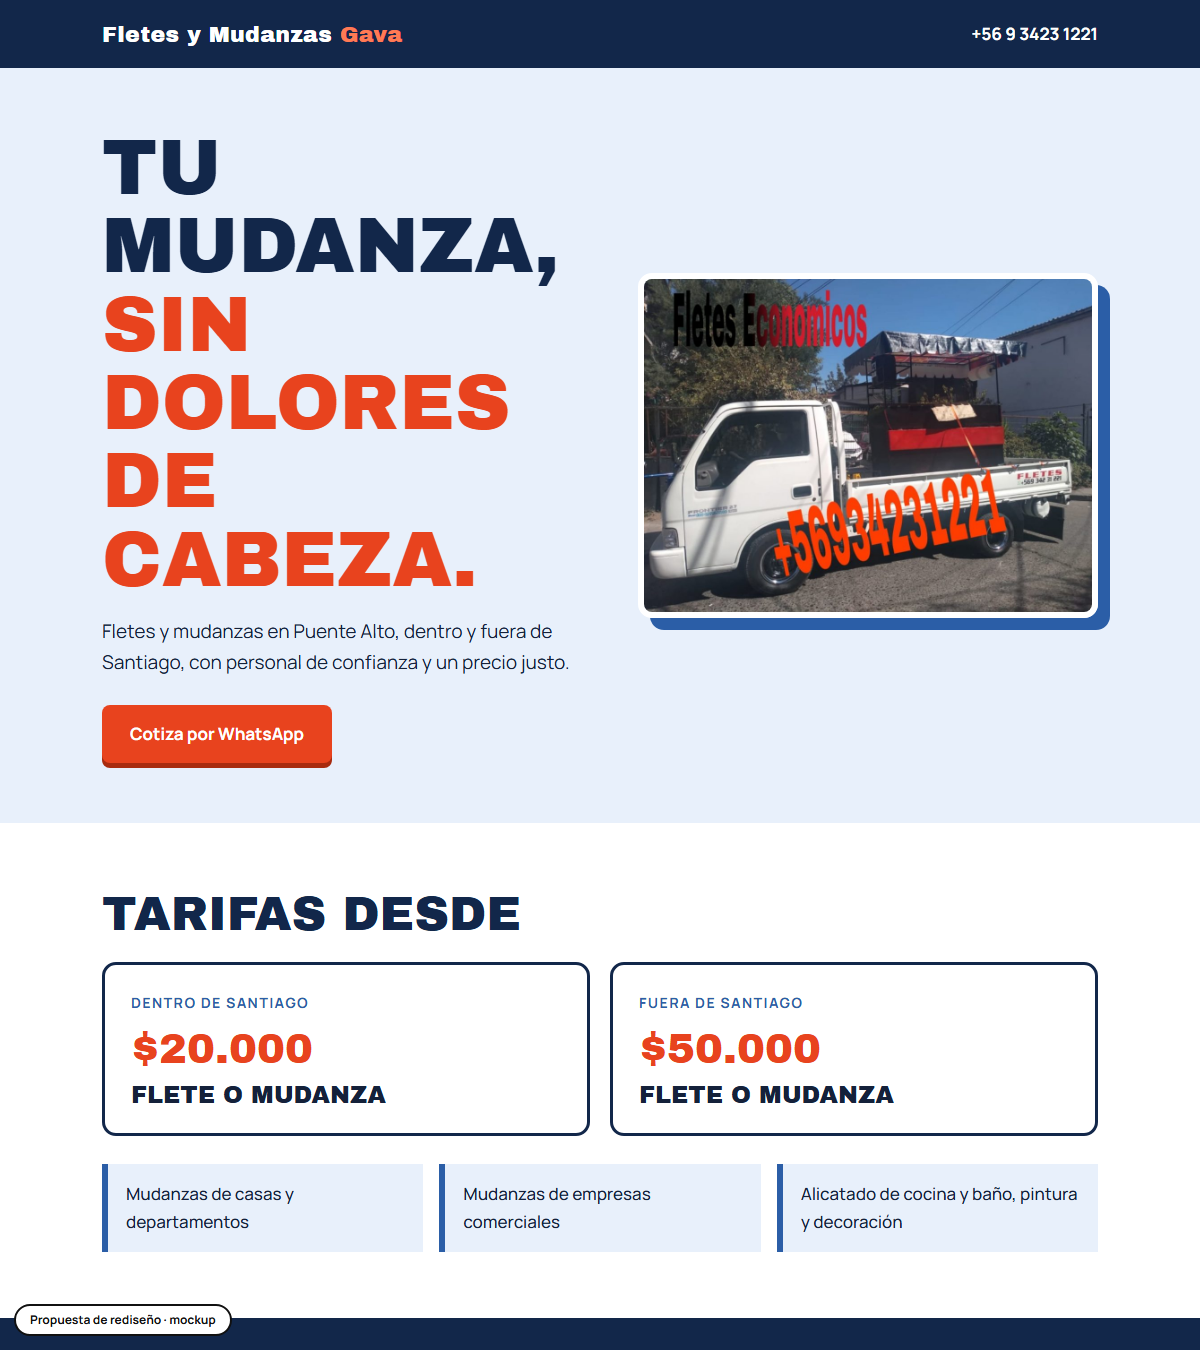
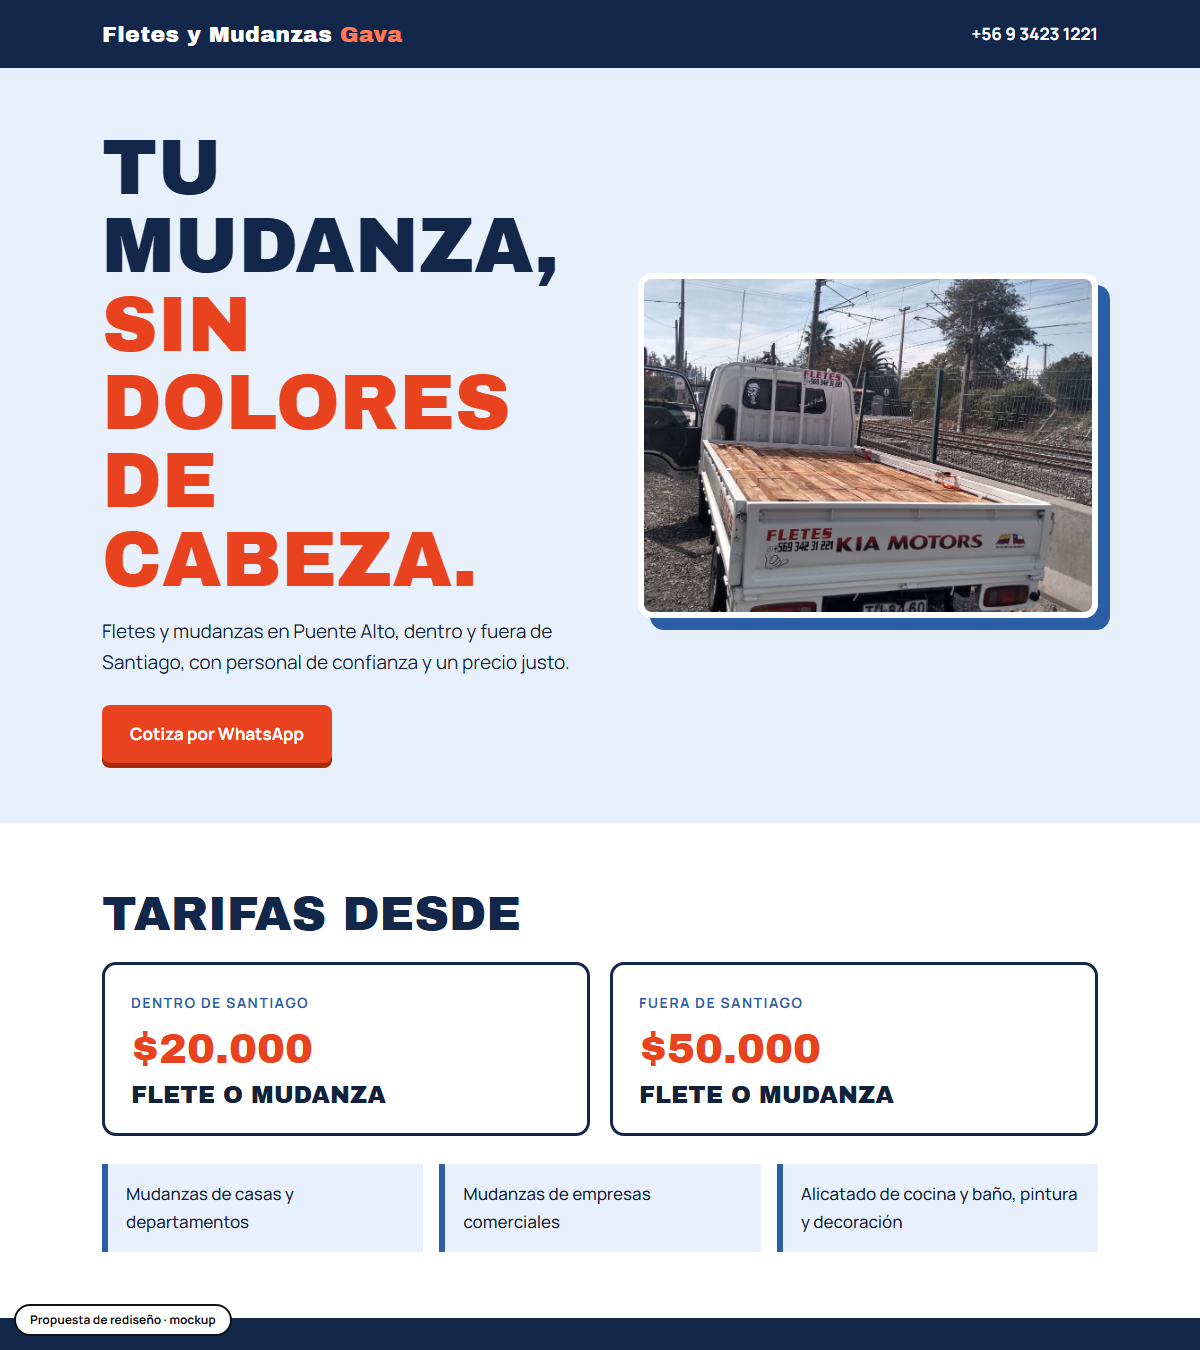
Mockup: fletes-y-mudanzas-gava-puente-alto

Changed region(s): [[0.5242, 0.1867, 0.925, 0.4667]]

diff --git a/fletes-y-mudanzas-gava-puente-alto/index.html b/fletes-y-mudanzas-gava-puente-alto/index.html
@@ -40,12 +40,12 @@ footer{padding:26px 0 90px;font-size:14px;opacity:.6}
 <div class="hero"><div class="wrap"><div><h1>Tu mudanza, <span>sin dolores de cabeza.</span></h1>
 <p>Fletes y mudanzas en Puente Alto, dentro y fuera de Santiago, con personal de confianza y un precio justo.</p>
 <a class="btn" href="https://wa.me/56934231221?text=Hola%2C%20quisiera%20cotizar%20un%20flete%20o%20mudanza">Cotiza por WhatsApp</a></div>
-<img src="assets/camion1.jpg" alt="Camión de fletes Gava"></div></div>
+<img src="assets/camion2.jpg" alt="Camión de fletes Gava"></div></div>
 <section id="tarifas"><div class="wrap"><h2>Tarifas desde</h2><div class="price">
 <div><small>Dentro de Santiago</small><b>$20.000</b><h3>Flete o mudanza</h3></div>
 <div><small>Fuera de Santiago</small><b>$50.000</b><h3>Flete o mudanza</h3></div></div>
 <div class="list"><p>Mudanzas de casas y departamentos</p><p>Mudanzas de empresas comerciales</p><p>Alicatado de cocina y baño, pintura y decoración</p></div></div></section>
-<section class="band"><div class="wrap two"><img src="assets/camion2.jpg" alt="Camión con carga" loading="lazy"><div><h2>Un servicio honesto</h2><p>Cuando invitas a una compañía de mudanzas a tu casa, quieres un equipo que te inspire confianza. Ningún trabajo es demasiado pequeño para nosotros.</p><p style="margin-top:14px">Revisa las opiniones de nuestros clientes en Google.</p></div></div></section>
+<section class="band"><div class="wrap"><div><h2>Un servicio honesto</h2><p>Cuando invitas a una compañía de mudanzas a tu casa, quieres un equipo que te inspire confianza. Ningún trabajo es demasiado pequeño para nosotros.</p><p style="margin-top:14px">Revisa las opiniones de nuestros clientes en Google.</p></div></div></section>
 <section class="contact" id="contacto"><div class="wrap"><h2>Pide tu cotización</h2><p>Comandante Enrique Faverio 747, Puente Alto.</p><p style="margin-top:12px"><a class="l" style="color:var(--red)" href="tel:+56934231221">+56 9 3423 1221</a><a class="l" style="color:var(--blue)" href="mailto:felixrenegado@hotmail.com">felixrenegado@hotmail.com</a></p></div></section>
 <div class="wrap"><footer>Fletes y Mudanzas Gava · Puente Alto</footer></div>
 <div class="mock">Propuesta de rediseño · mockup</div></body></html>
